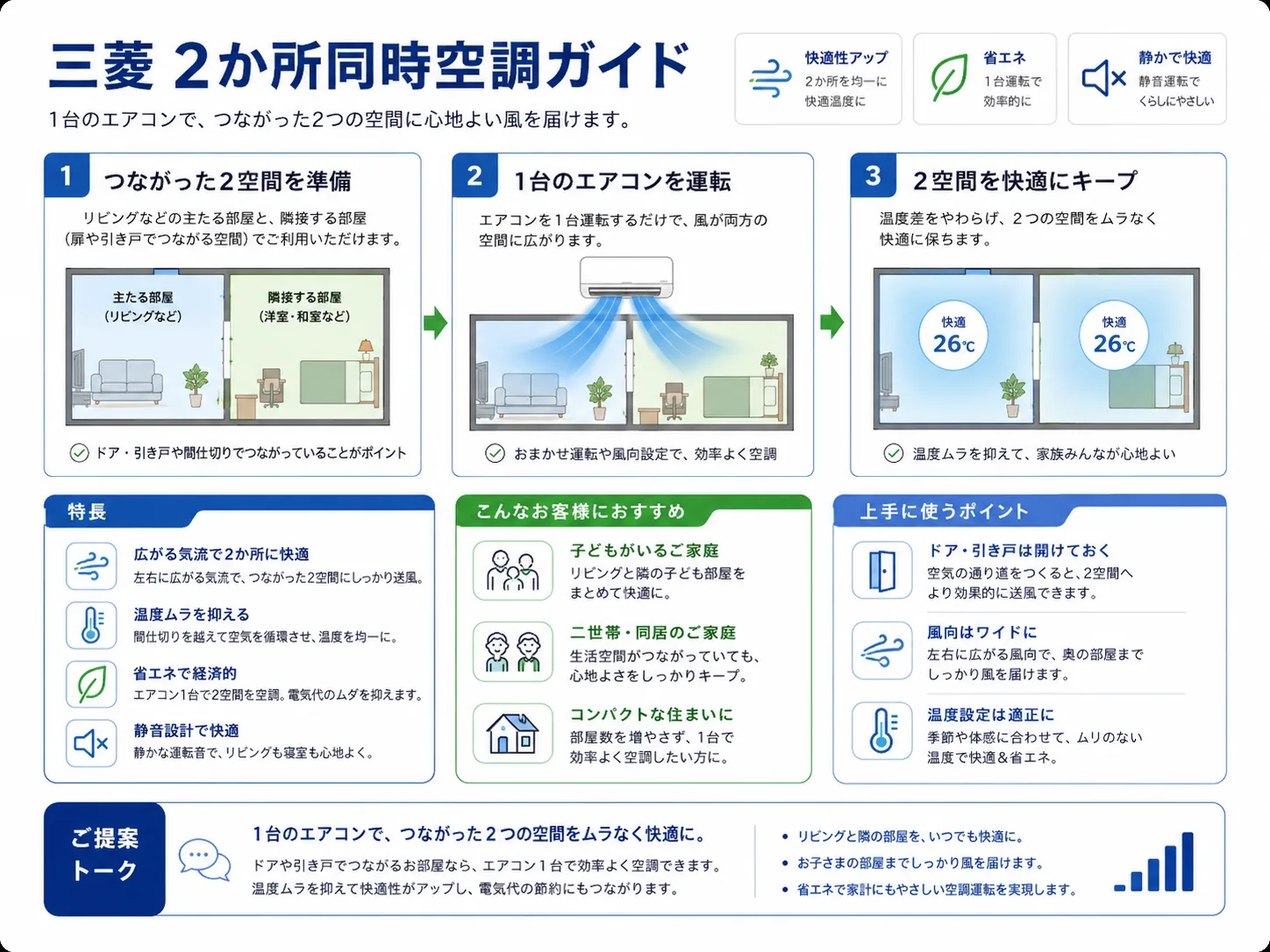
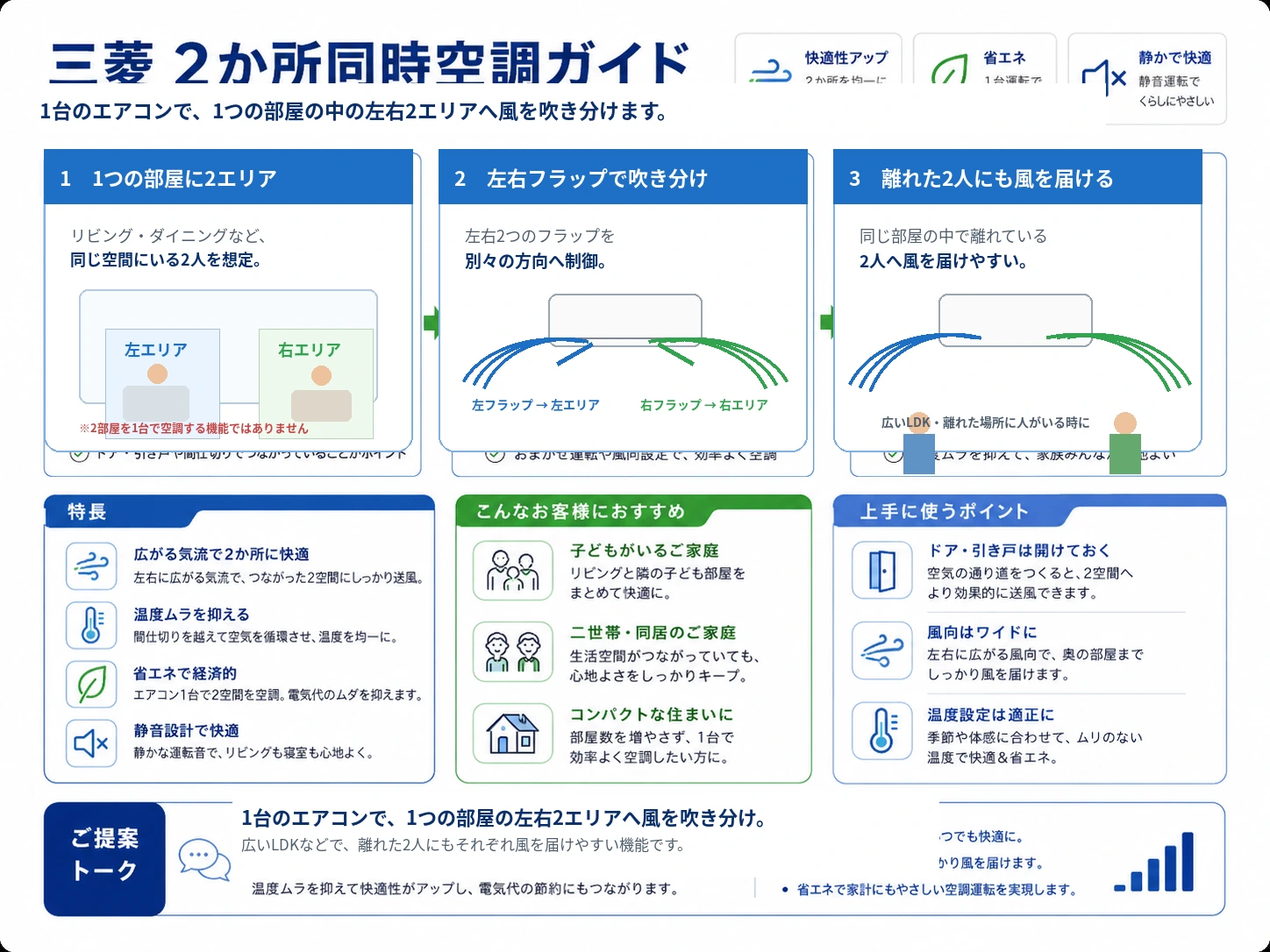
Add files via upload

diff --git a/index.html b/index.html
@@ -4,7 +4,7 @@
 <meta charset="utf-8">
 <meta name="viewport" content="width=device-width,initial-scale=1,viewport-fit=cover">
 <meta name="theme-color" content="#ffffff">
-<title>エアコン販買マスター Pro Ver.6.9.6 日立豪華図解統一確認版</title>
+<title>エアコン販買マスター Pro Ver.6.9.7 玉ちゃん指摘全反映版</title>
 <link rel="apple-touch-icon" sizes="180x180" href="apple-touch-icon.png?v=3890">
 <link rel="icon" type="image/png" sizes="32x32" href="favicon-32.png?v=3890">
 <style>
@@ -1294,7 +1294,7 @@ html,body{max-width:100%;overflow-x:hidden}
 
 
 <style id="v630-sharp-lux-final">
-/* Ver.6.9.6 日立豪華図解統一確認版：iPad/iPhone見切れ対策 */
+/* Ver.6.9.7 玉ちゃん指摘全反映版：iPad/iPhone見切れ対策 */
 #visualGrid .visual-card[data-cat="sharp"]{
   overflow:hidden!important;
   padding:10px!important;
@@ -1434,7 +1434,7 @@ html,body{max-width:100%;overflow-x:hidden}
 #general .maker-status-list span,#mitsubishi .maker-status-list span{min-width:42px;text-align:center}
 @media(max-width:700px){#general .hitachi-flow-row,#mitsubishi .hitachi-flow-row{grid-template-columns:1fr!important}#general .hitachi-flow-row i,#mitsubishi .hitachi-flow-row i{transform:rotate(90deg)}}
 
-/* ===== Ver6.9.5 Visual Library Unified Design ===== */
+/* ===== Ver6.9.7 Tamachan Feedback Fully Applied ===== */
 .visual-grid{grid-template-columns:repeat(2,minmax(0,1fr));gap:18px}
 .visual-card{position:relative;border:1px solid #cfe0ef;border-radius:24px;background:linear-gradient(180deg,#fff 0%,#f8fbff 100%);overflow:hidden;box-shadow:0 14px 34px rgba(20,61,102,.10)}
 .visual-card::before{content:"";display:block;height:7px;background:linear-gradient(90deg,#0d6ee8,#61a9ff)}
@@ -1484,7 +1484,7 @@ html,body{max-width:100%;overflow-x:hidden}
     <div class="brand">
       <span class="brand-snow">❄</span>
       <span>エアコン販買マスター</span>
-      <small>Ver.6.9.6 日立豪華図解統一確認版</small>
+      <small>Ver.6.9.7 玉ちゃん指摘全反映版</small>
     </div>
     <button class="icon-button status-button" onclick="openMission()" aria-label="今日の目標">◎</button>
   </header>
@@ -2207,7 +2207,7 @@ html,body{max-width:100%;overflow-x:hidden}
         <span class="setting-state state-manual">設定が必要</span><span class="setting-state state-auto">条件で自動</span><span class="setting-state state-connect">接続設定</span><span class="setting-state state-check">お手入れ確認</span>
       </div>
       <div class="setting-card-grid">
-        <article class="setting-info-card"><span class="setting-state state-check">構造機能</span><h3>防カビカラッとファン</h3><p><b>Rシリーズのみ。</b>ファンの超親水ナノコーティングで結露水を薄く広げ、速乾・ホコリ付着抑制につなげる構造。お客様がONにする設定機能としては案内しません。</p></article>
+        <article class="setting-info-card"><span class="setting-state state-check">構造＋乾燥運転</span><h3>防カビカラッとファン</h3><p><b>Rシリーズのみ。</b>超親水ナノコーティング自体は常時働く構造です。ファン乾燥に関わる運転機能は、使う場合に設定状態を確認します。コーティングそのものを「ONにする機能」とは案内しません。</p></article>
         <article class="setting-info-card"><span class="setting-state state-auto">自動</span><h3>フィルター自動お掃除</h3><p><b>R・Vシリーズ。</b>フィルターのホコリをトルネードブラシで自動除去し、ダストボックスに集めます。定期的なお手入れ目安は「フィルター自動お掃除」の解説側で確認します。</p></article>
         <article class="setting-info-card"><span class="setting-state state-manual">運転選択</span><h3>氷結ドライ</h3><p><b>R・V・E。</b>除湿運転として選択して使います。熱交換器を氷点下まで下げる方式で、再熱除湿ではなく室温低下があります。</p></article>
         <article class="setting-info-card"><span class="setting-state state-connect">接続設定</span><h3>COCORO HOME</h3><p><b>R・V・E。</b>無線LAN内蔵。スマホ連携を使うには家庭のWi‑Fiとアプリへの接続設定が必要です。DGは無線LAN内蔵モデルとして案内しません。</p></article>
@@ -2233,28 +2233,40 @@ html,body{max-width:100%;overflow-x:hidden}
 <section id="mitsubishi" class="page hidden">
   <header class="subheader"><button onclick="show('home')">‹</button><h1>三菱攻略</h1><span></span></header>
   <section class="maker-hero" style="background:linear-gradient(135deg,#8f0d18,#d9252f);color:#fff">
-    <div class="maker-hero-copy"><span class="maker-kicker">MITSUBISHI MASTER GUIDE</span><h2>センサー・気流・清潔を、シリーズ選びへつなげる。</h2><p>FZ・Z・X・R・Sを、シリーズ差 → 重要機能 → 初期設定 → 接客診断 → ミニテストの順で学びます。</p><div class="maker-hero-actions"><button onclick="scrollMakerTo('mitsubishiSeriesMap')">シリーズ攻略</button><button onclick="openVisualLibraryFilter('mitsubishi')">図解を見る</button></div></div>
-    <div class="maker-hero-visual"><div class="maker-series-status"><small>シリーズ攻略</small><div id="mitsubishiSeriesStatus" class="maker-status-list"><span data-series="FZ">FZ</span><span data-series="Z">Z</span><span data-series="X">X</span><span data-series="R">R</span><span data-series="S">S</span></div></div><div class="maker-progress-ring"><span id="mitsubishiPercent">0%</span><small>理解度</small></div></div>
+    <div class="maker-hero-copy"><span class="maker-kicker">MITSUBISHI MASTER GUIDE</span><h2>センサー・気流・清潔を、シリーズ選びへつなげる。</h2><p>FZ・Z・R・GEを、シリーズ差 → 重要機能 → 初期設定 → 接客診断 → ミニテストの順で学びます。</p><div class="maker-hero-actions"><button onclick="scrollMakerTo('mitsubishiSeriesMap')">シリーズ攻略</button><button onclick="openVisualLibraryFilter('mitsubishi')">図解を見る</button></div></div>
+    <div class="maker-hero-visual"><div class="maker-series-status"><small>シリーズ攻略</small><div id="mitsubishiSeriesStatus" class="maker-status-list"><span data-series="FZ">FZ</span><span data-series="Z">Z</span><span data-series="R">R</span><span data-series="GE">GE</span></div></div><div class="maker-progress-ring"><span id="mitsubishiPercent">0%</span><small>理解度</small></div></div>
   </section>
   <div class="daikin-wrap">
-    <div class="daikin-note">2026年度の霧ヶ峰は複数シリーズを展開しています。この攻略では売場で比較しやすいFZ・Z・X・R・Sを中心に整理します。搭載機能や初期設定は型番・能力帯で異なるため、最終案内は該当機種の公式仕様・取扱説明書で確認してください。</div>
+    <div class="daikin-note">2026年度の霧ヶ峰は複数シリーズを展開しています。この攻略では売場で比較しやすいFZ・Z・R・GEを中心に整理します。搭載機能や初期設定は型番・能力帯で異なるため、最終案内は該当機種の公式仕様・取扱説明書で確認してください。</div>
 
     <div class="hitachi-master-card"><div class="hitachi-master-head"><div><span class="hitachi-master-badge">三菱マスターコース</span><h2>ムーブアイだけで終わらせない</h2><p>「誰を見ているか」「どこへ風を送るか」「どこまで自動化するか」を、シリーズ選定までつなげます。</p></div><div class="hitachi-master-score"><span id="mitsubishiProgressValue">0%</span><small>学習進捗</small></div></div><div class="hitachi-course-steps"><button onclick="scrollMakerTo('mitsubishiSeriesMap')"><b>STEP 1</b><span>シリーズ</span></button><button onclick="scrollMakerTo('mitsubishiFeatureArea')"><b>STEP 2</b><span>重要機能</span></button><button onclick="scrollMakerTo('mitsubishiSettings')"><b>STEP 3</b><span>初期設定</span></button><button onclick="scrollMakerTo('mitsubishiQuick')"><b>STEP 4</b><span>接客診断</span></button><button onclick="scrollMakerTo('mitsubishiQuizArea')"><b>STEP 5</b><span>ミニテスト</span></button></div></div>
 
-    <div id="mitsubishiSeriesMap" class="series-card" style="max-width:980px;margin:0 auto 18px"><div class="maker-section-title"><span>SERIES POSITION</span><h2>FZ・Z・X・R・S シリーズ攻略</h2><p>「上から高い順」ではなく、お客様が必要とする快適性・設置性で覚えます。</p></div><div class="maker-position-ladder"><div><b>👑 FZ</b><span>次世代プレミアム。大空間でセンサー・快適性・省エネを最優先。人の状態を細かく見ながら自動制御を活用したい方向け。</span></div><div><b>⭐ Z</b><span>プレミアム。快適・清潔・省エネを総合的に重視。FZほど特殊な最上位機能は不要でも、長時間使うリビングで妥協したくない方向け。</span></div><div><b>⚖ X</b><span>ハイスペック。機能と価格のバランスを取りやすい。センサー・清潔・気流をしっかり使いたい家庭の比較軸。</span></div><div><b>📐 R</b><span>高さ255mmのコンパクトモデル。設置寸法が厳しい場所でも、快適・清潔機能を残したい時に強い。</span></div><div><b>🏠 S</b><span>スタンダード。寝室・子ども部屋など、基本機能をしっかり押さえながら価格とのバランスを取りたい部屋向け。</span></div></div></div>
+    <div id="mitsubishiSeriesMap" class="series-card" style="max-width:980px;margin:0 auto 18px"><div class="maker-section-title"><span>SERIES POSITION</span><h2>FZ・Z・R・GE シリーズ攻略</h2><p>「上から高い順」ではなく、お客様が必要とする快適性・設置性で覚えます。</p></div><div class="maker-position-ladder"><div><b>👑 FZ</b><span>14〜29畳。ムーブアイmirA.I.+、2温度2気流、プレミアム除湿。省エネ・快適性を最優先する最上位候補。</span></div><div><b>⭐ Z</b><span>6〜29畳。ムーブアイmirA.I.+、2か所同時空調、さらっと除湿冷房（再熱除湿）。寒くなりにくい除湿を重視する時の重要候補。</span></div><div><b>📐 R</b><span>6〜23畳・高さ255mm。ムーブアイ、スマート除湿、ヘルスエアー機能。設置性と快適機能を両立。</span></div><div><b>🏠 GE</b><span>6〜18畳。フロアアイ、選べる3モード除湿、はずせるボディ。基本機能・価格を重視する標準シリーズ。</span></div></div></div>
 
-    <div class="series-tabs maker-series-tabs"><button class="series-tab active" onclick="showMitsubishiSeries('FZ',this)">FZ</button><button class="series-tab" onclick="showMitsubishiSeries('Z',this)">Z</button><button class="series-tab" onclick="showMitsubishiSeries('X',this)">X</button><button class="series-tab" onclick="showMitsubishiSeries('R',this)">R</button><button class="series-tab" onclick="showMitsubishiSeries('S',this)">S</button></div>
+    <div class="series-tabs maker-series-tabs"><button class="series-tab active" onclick="showMitsubishiSeries('FZ',this)">FZ</button><button class="series-tab" onclick="showMitsubishiSeries('Z',this)">Z</button><button class="series-tab" onclick="showMitsubishiSeries('R',this)">R</button><button class="series-tab" onclick="showMitsubishiSeries('GE',this)">GE</button></div>
     <div id="mitsubishiSeriesPanel" class="series-panel"></div>
 
-    <div id="mitsubishiFeatureArea" class="series-card" style="max-width:980px;margin:0 auto 18px"><div class="maker-section-title"><span>IMPORTANT FEATURES</span><h2>三菱の重要機能</h2><p>機能名だけでなく「どんな困りごとに効くか」で覚えます。</p></div><div class="setting-card-grid"><article class="setting-info-card"><span class="setting-state state-auto">センサー</span><h3>👁 ムーブアイ系</h3><p>赤外線センサーで床・人などの温度を見て体感に合わせた制御へ。<b>「設定温度では拾えない暑い・寒いを見にいく」</b>と説明すると伝わりやすい。</p></article><article class="setting-info-card"><span class="setting-state state-auto">自動制御</span><h3>🌬 ハイブリッド運転</h3><p>体感に合わせて冷房・送風などを切り替え、快適性と省エネの両立を狙う考え方。長時間運転するリビングで比較しやすい。</p></article><article class="setting-info-card"><span class="setting-state state-manual">気流</span><h3>↔ 2か所同時空調</h3><p>対応機種では離れた2人などに別々の気流を届ける提案が可能。広いLDKや家族で体感差がある家庭に。</p></article><article class="setting-info-card"><span class="setting-state state-check">清潔</span><h3>💧 ピュアミスト</h3><p>微細なミストを使った空気ケア。搭載シリーズを確認し、空気の清潔性も重視する方へ。</p></article><article class="setting-info-card"><span class="setting-state state-check">設置</span><h3>📐 Rの高さ255mm</h3><p>窓上やカーテンレール上など、高さ制約がある場所で候補。機能だけでなく<b>本体寸法＋必要据付寸法</b>をセットで確認。</p></article><article class="setting-info-card"><span class="setting-state state-check">アプリ</span><h3>📱 スマホ連携</h3><p>対応機種ではアプリ連携が可能。利用する場合は家庭のネット環境・機器登録などの初期設定が必要です。</p></article></div></div>
+    <div id="mitsubishiFeatureArea" class="series-card" style="max-width:980px;margin:0 auto 18px"><div class="maker-section-title"><span>IMPORTANT FEATURES</span><h2>三菱の重要機能</h2><p>玉ちゃん指摘に合わせ、機能名・シリーズ差・使い方を具体化します。</p></div><div class="setting-card-grid">
+<article class="setting-info-card"><span class="setting-state state-auto">センサー</span><h3>👁 三菱のセンサー</h3><p><b>FZ・Z＝ムーブアイmirA.I.+／FL＝ムーブアイ極／X・R・S＝ムーブアイ／GE＝フロアアイ。</b>設定温度だけでなく床・壁・人などを見て制御するのが提案軸です。</p></article>
+<article class="setting-info-card"><span class="setting-state state-auto">自動制御</span><h3>🌬 ハイブリッド運転</h3><p>夏は<b>冷房 ⇄ 爽風（送風）</b>を体感温度に合わせて自動切替。FZ・Zなど「おまかせA.I.自動」に含むシリーズと、設定して使うシリーズを分けて案内します。</p></article>
+<article class="setting-info-card"><span class="setting-state state-manual">気流</span><h3>↔ 2か所同時空調</h3><p><b>1台で2部屋を空調する機能ではありません。</b>1つの広い部屋の中で左右2つのフラップを別方向へ向け、2エリアへ吹き分けます。</p></article>
+<article class="setting-info-card"><span class="setting-state state-check">空気清浄</span><h3>✨ ピュアミスト／ヘルスエアー</h3><p><b>FZ・Z・X＝ピュアミスト、R＝ヘルスエアー機能。</b>Rにピュアミストは搭載しないため、「三菱の空気清浄」として方式を分けます。</p></article>
+<article class="setting-info-card"><span class="setting-state state-check">清潔</span><h3>🧼 3つのボディ</h3><p><b>はずせる＝自分で外して洗う／よごれん＝汚れを付きにくくする／おまかせ＝内部を自動ケア。</b>同じ名前でも対象部位はシリーズごとに確認します。</p></article>
+<article class="setting-info-card"><span class="setting-state state-check">設置</span><h3>📐 Rの高さ255mm</h3><p>本体高さだけで設置可否を断定せず、必要据付寸法・配管方向まで確認。右配管295mm／左配管386mmを目安に現場条件を確認します。</p></article>
+</div></div>
 
-    <div id="mitsubishiSettings" class="series-card setting-card-section" style="max-width:980px;margin:0 auto 18px"><div class="maker-section-title"><span>INITIAL SETTINGS</span><h2>三菱 初期設定・使い方</h2><p>「搭載している」＝「購入直後から最適設定」とは限りません。最初に確認したい項目を整理します。</p></div><div class="setting-card-legend"><span class="setting-state state-check">最初に確認</span><span class="setting-state state-auto">自動運転</span><span class="setting-state state-manual">手動選択</span><span class="setting-state state-connect">接続設定</span></div><div class="setting-card-grid"><article class="setting-info-card"><span class="setting-state state-check">最初に確認</span><h3>① 時刻・タイマー</h3><p>時計やタイマー機能を使う場合は時刻設定を確認。停電・電池交換後などは再確認します。</p></article><article class="setting-info-card"><span class="setting-state state-auto">自動運転</span><h3>② センサー／おまかせ系</h3><p>ムーブアイやAI自動系の搭載・設定状態を確認。お客様が「全部自動で任せたい」のか「自分で風向を決めたい」のかも聞きます。</p></article><article class="setting-info-card"><span class="setting-state state-manual">手動選択</span><h3>③ 風向・風量</h3><p>直風が苦手、2人に分けたい、足元を重視したいなど、生活に合わせて風向を調整。センサー任せとの違いも説明します。</p></article><article class="setting-info-card"><span class="setting-state state-check">清潔</span><h3>④ 清潔機能</h3><p>内部クリーン・フィルター清掃・ピュアミストなどはシリーズごとに搭載差や動作条件があります。お手入れ不要とは案内しません。</p></article><article class="setting-info-card"><span class="setting-state state-connect">接続設定</span><h3>⑤ アプリ・無線LAN</h3><p>スマホ操作を使う場合は対応機種、家庭のWi‑Fi環境、アプリへの機器登録を確認します。</p></article><article class="setting-info-card"><span class="setting-state state-check">最後に確認</span><h3>⑥ 取扱説明書の初期状態</h3><p>機能名称が同じでも、シリーズ・年度で工場出荷時設定が異なる場合があります。<b>「搭載＝ON」では断定しない</b>のが安全です。</p></article></div></div>
+    <div id="mitsubishiSettings" class="series-card setting-card-section" style="max-width:980px;margin:0 auto 18px"><div class="maker-section-title"><span>INITIAL SETTINGS</span><h2>三菱 初期設定・使い方</h2><p>時刻設定を主役にせず、「最初から自動／自分で設定／アプリ接続」を分けます。</p></div><div class="setting-card-legend"><span class="setting-state state-auto">最初から自動</span><span class="setting-state state-manual">自分で設定</span><span class="setting-state state-connect">アプリ接続</span></div><div class="setting-card-grid">
+<article class="setting-info-card"><span class="setting-state state-auto">最初から自動</span><h3>① センサー・おまかせ系</h3><p>対応シリーズではセンサーや自動制御を活用。ハイブリッド運転の扱いはシリーズごとに違うため、設定状態を確認します。</p></article>
+<article class="setting-info-card"><span class="setting-state state-manual">自分で設定</span><h3>② 風向・風量・使いたい機能</h3><p>直風が苦手、左右へ吹き分けたい、タイマーを使いたいなど、生活に合わせて必要な項目だけ設定します。</p></article>
+<article class="setting-info-card"><span class="setting-state state-manual">清潔</span><h3>③ 清潔機能</h3><p>内部クリーン・フィルター掃除・空気清浄は搭載差あり。<b>搭載＝お手入れ不要</b>とは案内しません。</p></article>
+<article class="setting-info-card"><span class="setting-state state-connect">アプリ接続</span><h3>④ MyMU／霧ヶ峰REMOTE等</h3><p>スマホ操作を使う場合のみ、対応型番・家庭のWi‑Fi・アプリ登録を確認します。対応サービスは型番・年度で確認します。</p></article>
+</div></div>
 
-    <section id="mitsubishiQuick" class="maker-quick-mode"><div class="maker-section-title"><span>BUYING FLOOR MODE</span><h2>お客様の一言 → 比較候補</h2><p>売場でそのまま使える絞り込み。</p></div><div class="maker-quick-grid"><button><b>🥵 家族で暑がり寒がりが違う</b><small>FZ / Z → センサー・気流</small></button><button><b>🏠 広いLDKをムラなく</b><small>FZ / Z / X</small></button><button><b>💰 電気代も気になる</b><small>FZ / Z → 省エネ性能も比較</small></button><button><b>📐 高さがギリギリ</b><small>R → 255mm＋据付寸法</small></button><button><b>✨ 清潔も重視</b><small>Z / X等 → 搭載清潔機能を確認</small></button><button><b>🛏 個室・基本機能</b><small>S → 必要機能と価格</small></button></div></section>
+    <section id="mitsubishiQuick" class="maker-quick-mode"><div class="maker-section-title"><span>BUYING FLOOR MODE</span><h2>お客様の一言 → 比較候補</h2><p>売場でそのまま使える絞り込み。</p></div><div class="maker-quick-grid"><button><b>🥵 家族で暑がり寒がりが違う</b><small>FZ / Z → センサー・気流</small></button><button><b>🏠 広いLDKをムラなく</b><small>FZ / Z</small></button><button><b>💰 電気代も気になる</b><small>FZ / Z → 省エネ性能も比較</small></button><button><b>📐 高さがギリギリ</b><small>R → 255mm＋据付寸法</small></button><button><b>✨ 清潔も重視</b><small>FZ / Z / R → 空気清浄・清潔機能を確認</small></button><button><b>🛏 個室・基本機能</b><small>GE → 基本機能と価格</small></button></div></section>
 
     <div id="mitsubishiTalk" class="series-card hitachi-sales-flow" style="max-width:980px;margin:0 auto 18px"><h2 style="margin-top:0">三菱を提案する4ステップ</h2><div class="hitachi-flow-row"><div><b>1. 人</b><span>誰がどこで使う？</span></div><i>→</i><div><b>2. 体感差</b><span>暑がり・寒がりは？</span></div><i>→</i><div><b>3. 設置</b><span>高さ・部屋の広さ</span></div><i>→</i><div><b>4. シリーズ</b><span>必要機能だけ残す</span></div></div><div class="feature-caution"><b>接客の一言</b><br>「三菱は、人やお部屋を見て必要なところへ気流を届ける考え方が強みです。ご家族の過ごし方と設置条件からシリーズを絞りましょう。」</div></div>
 
-    <div class="series-card maker-finish-card"><div class="hitachi-finish-icon">🏅</div><div><h2>三菱攻略 修了チェック</h2><p>5シリーズ・重要機能・初期設定・接客・ミニテストを確認。</p><strong id="mitsubishiFinishText">学習を始めましょう</strong></div></div>
+    <div class="series-card maker-finish-card"><div class="hitachi-finish-icon">🏅</div><div><h2>三菱攻略 修了チェック</h2><p>4シリーズ・重要機能・初期設定・接客・ミニテストを確認。</p><strong id="mitsubishiFinishText">学習を始めましょう</strong></div></div>
     <div id="mitsubishiQuizArea" class="daikin-quiz"><h2>三菱シリーズ提案ミニテスト</h2><div id="mitsubishiQuizQuestion" class="question-card"></div><div id="mitsubishiQuizChoices" class="choice-list"></div><div id="mitsubishiQuizFeedback" class="answer-result hidden"></div><button id="mitsubishiQuizNext" class="next-button hidden" onclick="nextMitsubishiQuiz()">次の問題</button></div>
   </div>
 </section>
@@ -3338,9 +3350,9 @@ const VISUAL_LIBRARY=[
  {category:"daikin",file:"room-patrol.png",title:"室温パトロール",desc:"停止中の見守りから自動運転までの流れを図解。"},
  {category:"daikin",file:"daikin-overview.png",title:"R・A・F・E比較",desc:"使い方・希望・予算から、4シリーズの提案軸を比較。"},
  {category:"hitachi",file:"hitachi-freeze-indoor-illustrated.png?v=686",title:"凍結洗浄（室内機）",desc:"凍結→汚れ捕捉→解凍排水の工程と、できること・限界を図解。"},
- {category:"hitachi",file:"hitachi-freeze-outdoor-lux-v695.png?v=695",title:"凍結洗浄（室外機）",desc:"背面熱交換器の凍結→解凍→洗い流しと、逆回転時の注意を豪華図解。"},
+ {category:"hitachi",file:"hitachi-freeze-outdoor-lux-v695.png?v=697",title:"凍結洗浄（室外機）",desc:"背面熱交換器の凍結→解凍→洗い流し。工場出荷時OFF・設定必要・逆回転時の案内を整理。"},
  {category:"hitachi",file:"hitachi-fan-robot-illustrated.png?v=686",title:"ファンお掃除ロボ",desc:"送風ファンの清掃範囲と、フィルター自動掃除との違いを図解。"},
- {category:"hitachi",file:"hitachi-filter-auto-lux-v696.png?v=696",title:"フィルター自動掃除",desc:"固定フィルター上をお掃除ユニットが移動し、正面側ダストボックスへ集める仕組みを豪華図解。"},
+ {category:"hitachi",file:"hitachi-filter-auto-lux-v696.png?v=697",title:"フィルター自動掃除",desc:"フィルターのホコリを自動掃除する機能を主役にし、ユニット移動式は仕組みの特徴として整理。"},
  {category:"hitachi",file:"hitachi-mold-buster-illustrated.png?v=686",title:"カビバスター",desc:"停止中の温湿度監視と、加熱・低湿制御によるカビ抑制を図解。"},
  {category:"hitachi",file:"hitachi-internal-dry-illustrated.png?v=686",title:"内部送風乾燥",desc:"停止後の送風で内部の湿気を乾かし、カビ抑制を助ける流れを図解。"},
  {category:"hitachi",file:"hitachi-stainless-illustrated.png?v=686",title:"ステンレス・クリーン",desc:"フィルター・通風路・フラップなど、採用箇所と限界を図解。"},
@@ -3351,7 +3363,7 @@ const VISUAL_LIBRARY=[
  {category:"hitachi",file:"hitachi-frost-watch-illustrated.png?v=686",title:"みはって霜取り",desc:"室外機の霜を見張り、必要なタイミングで霜取り運転する仕組みを図解。"},
  {category:"hitachi",file:"hitachi-ryokai-illustrated.png?v=686",title:"健康冷房［涼快］",desc:"湿度を抑えながら、冷えすぎに配慮したさわやかな冷房を図解。"},
  {category:"hitachi",file:"hitachi-sleep-watch-illustrated.png?v=686",title:"みはっておやすみ",desc:"睡眠中の温度・湿度を見張り、寝苦しさや冷えすぎに配慮する運転を図解。"},
- {category:"hitachi",file:"hitachi-lab-control-lux-v696.png?v=696",title:"LAB制御",desc:"設定温度到達後の安定時に低出力へ自動切替し、快適性と節電を両立する仕組みを図解。"},
+ {category:"hitachi",file:"hitachi-lab-control-lux-v696.png?v=697",title:"LAB制御",desc:"設定温度到達後の安定時に低出力へ自動切替し、快適性と節電を両立する仕組みを図解。"},
  {category:"hitachi",file:"hitachi-wave-fan-illustrated.png?v=414",title:"WN ウェーブファン",desc:"Xシリーズと同じファン採用、静音性向上、案内時の注意を図解。"},
  {category:"toshiba",file:"toshiba-radar-v692.webp",title:"レーダー風あて／風よけ",desc:"V-DR専用。人の動きを探知し、風を届ける・避ける仕組みを図解。"},
  {category:"toshiba",file:"toshiba-mufukan-v692.webp",title:"無風感空調",desc:"V-DR・V-DZ・V-DX。風あたりをやわらげる仕組みを図解。"},
@@ -3361,21 +3373,22 @@ const VISUAL_LIBRARY=[
  {category:"toshiba",file:"toshiba-iolife-v692.webp",title:"IoLIFE",desc:"Wi-Fi接続・機器登録・スマホ操作の流れを図解。"},
  {category:"toshiba",file:"toshiba-series-v692.webp",title:"東芝5シリーズ比較",desc:"V-DR・V-DZ・V-DX・V-X・V-Mの位置づけを図解。"},
  {category:"toshiba",file:"toshiba-settings-v692.webp",title:"東芝 初期設定",desc:"手動選択・自動・IoLIFE接続設定を整理。"},
- {category:"sharp",file:"sharp-lux-plasma-v694.png?v=694",title:"プラズマクラスター空気清浄",desc:"空気ケアの仕組みを豪華図解。送風単独運転・25000/7000のシリーズ差はSHARP攻略で確認。"},
- {category:"sharp",file:"sharp-lux-filter-v694.png?v=694",title:"フィルター自動お掃除",desc:"R・Vのブラシ清掃からダスト回収までを図解。"},
- {category:"sharp",file:"sharp-lux-cocoro-v694.png?v=694",title:"COCORO HOME・ペットモード",desc:"スマホ連携、おやすみAI、ペットモードまで具体的に図解。"},
- {category:"sharp",file:"sharp-lux-airflow-v694.png?v=694",title:"気流制御",desc:"コアンダロング気流・すこやかシャワー気流を分けて図解。"},
- {category:"sharp",file:"sharp-lux-dehumid-v694.png?v=694",title:"除湿2方式",desc:"氷結ドライとコアンダ除湿の仕組み・使い分けを図解。"},
- {category:"sharp",file:"sharp-lux-sleep-v694.png?v=694",title:"匠の冷房・睡眠向け機能",desc:"匠の冷房、すこやかシャワー気流、おやすみAIを整理。"},
- {category:"sharp",file:"sharp-lux-clean-v694.png?v=694",title:"清潔3機能",desc:"防カビカラッとファン、内部清浄、カビパトロールの役割を図解。"},
- {category:"sharp",file:"sharp-lux-eco-v694.png?v=694",title:"省エネ・節電の具体機能",desc:"エコ自動・おでかけ・つないでもっと節電などを具体化。"},
- {category:"mitsubishi",file:"mitsubishi-moveeye-v692.webp",title:"ムーブアイ",desc:"人・床・壁・天井まで見分けるセンサーの仕組みと接客ポイントを図解。"},
- {category:"mitsubishi",file:"mitsubishi-hybrid-v692.webp",title:"ハイブリッド運転",desc:"体感温度に合わせて冷房と送風を自動で使い分ける流れを図解。"},
- {category:"mitsubishi",file:"mitsubishi-two-point-v692.webp",title:"2か所同時空調",desc:"左右のフラップで2つのエリアへ気流を届ける仕組みを図解。"},
- {category:"mitsubishi",file:"mitsubishi-puremist-v692.webp",title:"ピュアミスト",desc:"ナノレベルの微細ミストによる空気ケアを図解。"},
- {category:"mitsubishi",file:"mitsubishi-series-v692.webp",title:"三菱シリーズ比較",desc:"FZ・Z・X・R・Sの違いと選び方を大型比較表で整理。"},
- {category:"mitsubishi",file:"mitsubishi-settings-v692.webp",title:"三菱 初期設定",desc:"最初に確認したい設定を5ステップで見やすく整理。"},
- {category:"mitsubishi",file:"mitsubishi-clean-v692.webp",title:"三菱 清潔・お手入れ",desc:"フィルターや内部クリーンなど、日常のお手入れと注意点を整理。"},
+ {category:"sharp",file:"sharp-lux-plasma-v694.png?v=697",title:"プラズマクラスター空気清浄",desc:"送風単独運転も可能。プラズマクラスター25000／7000はシリーズごとに確認。"},
+ {category:"sharp",file:"sharp-lux-filter-v694.png?v=697",title:"フィルター自動お掃除",desc:"ブラシ清掃からダスト回収までを図解。搭載シリーズは型番で確認。"},
+ {category:"sharp",file:"sharp-lux-cocoro-v694.png?v=697",title:"COCORO HOME・ペットモード",desc:"冷房時のみ。ワンちゃん冷房／ネコちゃん冷房の制御差と注意点を明記。"},
+ {category:"sharp",file:"sharp-lux-airflow-v694.png?v=697",title:"気流制御",desc:"コアンダロング気流・すこやかシャワー気流を除湿と分けて図解。"},
+ {category:"sharp",file:"sharp-lux-dehumid-v694.png?v=697",title:"除湿2方式",desc:"R＝氷結ドライ、V・E＝氷結ドライ＋コアンダ除湿、DG＝コアンダ除湿。再熱除湿ではない。"},
+ {category:"sharp",file:"sharp-lux-sleep-v694.png?v=697",title:"匠の冷房・睡眠向け機能",desc:"匠の冷房は温度・湿度・気流、おやすみAIは気象情報と起床時フィードバックを活用。"},
+ {category:"sharp",file:"sharp-lux-clean-v694.png?v=697",title:"清潔3機能",desc:"防カビカラッとファンはR、内部清浄／カビパトロールはR・V・E・DG。DGの効果説明も区別。"},
+ {category:"sharp",file:"sharp-lux-eco-v694.png?v=697",title:"省エネ・節電の具体機能",desc:"エコ自動・おでかけ・つないでもっと節電を『何を見てどう制御するか』で具体化。"},
+ {category:"sharp",file:"sharp-settings-illustrated.png?v=697",title:"SHARP 初期設定",desc:"自動／要設定／アプリ接続を分離。ダストボックス確認はお手入れへ移動。"},
+ {category:"mitsubishi",file:"mitsubishi-moveeye-v692.webp?v=697",title:"三菱のセンサー",desc:"mirA.I.+／ムーブアイ極／ムーブアイ／フロアアイの違いと搭載シリーズを整理。"},
+ {category:"mitsubishi",file:"mitsubishi-hybrid-v692.webp?v=697",title:"ハイブリッド運転",desc:"冷房⇄爽風（送風）を自動切替。シリーズごとの設定方法の違いも明記。"},
+ {category:"mitsubishi",file:"mitsubishi-two-point-v692.webp?v=697",title:"2か所同時空調",desc:"1台で2部屋ではなく、1つの部屋の左右2エリアへ左右フラップで吹き分け。"},
+ {category:"mitsubishi",file:"mitsubishi-puremist-v692.webp?v=697",title:"三菱の空気清浄",desc:"FZ・Z・X＝ピュアミスト、R＝ヘルスエアー機能として分けて案内。"},
+ {category:"mitsubishi",file:"mitsubishi-settings-v692.webp?v=697",title:"三菱 初期設定",desc:"最初から自動／自分で確認／アプリ接続の3分類。時刻設定は主役にしない。"},
+ {category:"mitsubishi",file:"mitsubishi-clean-v692.webp?v=697",title:"三菱 清潔・お手入れ",desc:"はずせるボディ／よごれんボディ／おまかせボディの役割を整理。"},
+ {category:"mitsubishi",file:"mitsubishi-series-v692.webp?v=697",title:"三菱シリーズ比較",desc:"FZ・Z・R・GEを中心に、畳数・除湿方式・設置性を比較。シリーズ比較は図解一覧の最後に配置。"},
  {category:"general",file:"general-sarasara-v692.webp",title:"さらさら冷房",desc:"再熱除湿で冷えすぎを抑えながら、湿度をしっかりコントロール。"},
  {category:"general",file:"general-airflow-v692.webp",title:"ノクリア独自の気流制御",desc:"広いお部屋へムラを抑えて届ける気流の考え方を図解。"},
  {category:"general",file:"general-clean-v692.webp",title:"熱交換器・内部クリーン",desc:"熱交換器や内部の清潔維持をサポートする機能を整理。"},
@@ -3705,9 +3718,9 @@ const SHARP_FEATURES={
  airflow:{title:"🌬 気流制御",body:"R・V・Eはコアンダロング気流で、天井に沿わせながら奥まで風を届けます。DGはコアンダ気流・すこやかシャワー気流で、直接風を抑えたい寝室・個室に提案しやすいです。"},
  dehumidify:{title:"💧 除湿2方式",body:"氷結ドライは熱交換器を氷点下まで下げて除湿量を確保。コアンダ除湿は冷風を天井へ逃がして体に当たりにくくします。目的の違う2方式として説明します。"},
  sleep:{title:"🌙 匠の冷房・睡眠",body:"匠の冷房は温度・湿度・気流をコントロール。すこやかシャワー気流は直風を抑える気流、おやすみAIはCOCORO HOMEのクラウドAI機能です。"},
- cleanCare:{title:"🛡 清潔3機能",body:"防カビカラッとファン、プラズマクラスター内部清浄、カビパトロールは別機能。Rはファンの超親水ナノコーティングまで含めて清潔性を強化します。"},
+ cleanCare:{title:"🛡 清潔3機能",body:"防カビカラッとファン＝Rのみ。プラズマクラスター内部清浄／カビパトロール＝R・V・E・DG。DGも内部清浄は搭載しますが、『カビ菌除菌効果』の説明対象からは分けて案内します。"},
  eco:{title:"🌱 省エネ機能",body:"エコ自動運転・おでかけ運転・つないでもっと節電・フィルター自動お掃除など、ムダの原因を具体的に減らす機能で説明します。"},
- app:{title:"📱 COCORO HOME",body:"R・V・Eは無線LAN内蔵。スマホ連携を使うには家庭のWi‑Fiとアプリへの接続設定が必要です。DGは無線LAN内蔵として案内しません。"},
+ app:{title:"📱 COCORO HOME・ペットモード",body:"R・V・Eは無線LAN内蔵。ペットモードは冷房時のみ。ワンちゃん冷房はエアコンに近い場所を設定温度より約2℃低く、ネコちゃん冷房は冷房と送風を自動切替して冷やしすぎを抑えます。ペット専用部屋での使用は推奨しません。"},
  settings:{title:"⚙ SHARP 初期設定",body:"フィルター自動お掃除はR・Vで自動。防カビカラッとファンはコーティング構造で、設定機能としては案内しません。COCORO HOMEを使う場合はWi‑Fi・アプリ接続設定が必要です。"}
 };
 function showSharpFeature(k){
@@ -3749,7 +3762,7 @@ const SHARP_SERIES={
 };
 
 const SHARP_QUIZ=[
- {q:"2026年Rシリーズの『防カビカラッとファン』の説明として最も適切なのは？",choices:["ファンの結露水を薄く広げて速く乾かし、ホコリを付きにくくしてカビ菌増殖の原因に対策する","すでに発生したカビを自動で洗い落とす","フィルターのホコリをブラシで除去する","室外機の熱交換器を洗浄する"],answer:0,ex:"防カビカラッとファンはRシリーズの清潔機能。すでに発生したカビを取る機能ではなく、使用にはお客様自身の設定が必要です。"},
+ {q:"2026年Rシリーズの『防カビカラッとファン』の説明として最も適切なのは？",choices:["ファンの結露水を薄く広げて速く乾かし、ホコリを付きにくくしてカビ菌増殖の原因に対策する","すでに発生したカビを自動で洗い落とす","フィルターのホコリをブラシで除去する","室外機の熱交換器を洗浄する"],answer:0,ex:"防カビカラッとファンはRシリーズの清潔機能。超親水ナノコーティング自体は設定不要です。ファン乾燥に関わる運転設定は、使用する場合に設定状態を確認します。"},
  {q:"高さ249mmでフィルター自動お掃除まで欲しい場合、2026年SHARPの候補として最も適切なのは？",choices:["Vシリーズ","Eシリーズ","DGシリーズ","Rシリーズの全能力帯"],answer:0,ex:"Vシリーズは全機種高さ249mmでフィルター自動お掃除を搭載。Eも高さ249mmですが自動お掃除は非搭載です。"},
  {q:"VシリーズとEシリーズの違いとして適切なのは？",choices:["Vはフィルター自動お掃除搭載、Eは非搭載","Eはプラズマクラスター非搭載","Vだけ氷結ドライ搭載","Eだけ無線LAN内蔵"],answer:0,ex:"V・Eはいずれもプラズマクラスター25000、匠の冷房、氷結ドライ、無線LANを備えます。大きな違いの一つがフィルター自動お掃除です。"},
  {q:"DGシリーズの組み合わせとして最も適切なのは？",choices:["プラズマクラスター7000＋奥行230mm＋すこやかシャワー気流","プラズマクラスター25000＋フィルター自動お掃除","氷結ドライ＋匠の冷房","防カビカラッとファン＋無線LAN内蔵"],answer:0,ex:"DGは奥行230mmのシンプルモデルで、プラズマクラスター7000、コアンダ気流制御、すこやかシャワー気流などを搭載します。"},
@@ -3865,11 +3878,10 @@ function nextSharpQuiz(){
 const MITSUBISHI_PROGRESS_KEY="aircon_mitsubishi_master_v670";
 const GENERAL_PROGRESS_KEY="aircon_general_master_v671";
 const MITSUBISHI_SERIES={
- FZ:{title:"FZシリーズ",tag:"次世代プレミアム",summary:"大空間でセンサー・快適性・省エネを最優先する最上位候補。",suitable:["長時間使うリビング","家族で体感差がある","自動制御を積極的に使いたい"],features:["高度なセンサー制御","2つの温度の風など上位気流制御","省エネ・清潔機能を幅広く搭載"],talk:"『人の状態まで細かく見ながら快適性を自動調整したい』ならFZから比較します。",caution:"能力帯・機能の搭載差は型番ごとに確認します。"},
- Z:{title:"Zシリーズ",tag:"プレミアム",summary:"快適・清潔・省エネを総合的に重視する主力上位シリーズ。",suitable:["リビングで長時間使用","清潔も省エネも重視","上位機能は欲しいがFZまでは不要"],features:["ムーブアイ系センサー","快適気流・除湿","清潔・省エネ機能を充実"],talk:"『リビング用で快適・清潔・省エネを全部バランスよく』ならZが比較しやすいです。",caution:"FZとの違いは欲しい機能を1つずつ照合します。"},
- X:{title:"Xシリーズ",tag:"ハイスペック",summary:"機能と価格のバランスを取りやすい高機能シリーズ。",suitable:["センサーや清潔機能を使いたい","価格も意識したい","リビング〜個室で高機能を選びたい"],features:["センサー制御","清潔機能","快適気流"],talk:"『必要な高機能は残しつつ、価格とのバランスも取りたい』ならXです。",caution:"Zとの差は搭載機能を具体的に比較します。"},
- R:{title:"Rシリーズ",tag:"高さ255mm",summary:"設置性を重視しつつ快適機能も残したコンパクトシリーズ。",suitable:["窓上・カーテンレール上","高さ制約が厳しい","コンパクトでも機能を妥協したくない"],features:["高さ255mm","センサー・清潔系機能","設置性と機能の両立"],talk:"『高さが厳しいけれど、シンプル機に落としたくない』ならRを確認します。",caution:"本体高さだけでなく据付必要寸法も確認します。"},
- S:{title:"Sシリーズ",tag:"スタンダード",summary:"寝室や個室で基本機能と価格のバランスを取りやすいシリーズ。",suitable:["寝室・子ども部屋","基本機能重視","価格も抑えたい"],features:["冷暖房の基本機能","扱いやすい操作","必要十分な快適機能"],talk:"『個室で必要な機能をしっかり、価格も抑えたい』ならSから比較します。",caution:"上位シリーズのセンサー・清潔機能が必要かを先に確認します。"}
+ FZ:{title:"FZシリーズ",tag:"次世代プレミアム",summary:"14〜29畳。省エネ・センサー・2温度2気流を最優先する最上位。",suitable:["大きなリビング","体感差がある家庭","自動制御・省エネ重視"],features:["ムーブアイmirA.I.+","2温度2気流","プレミアム除湿","はずせる／よごれん／おまかせボディ"],talk:"『省エネと自動快適を最優先』ならFZから比較します。",caution:"大型室内機。設置寸法と能力ラインアップを確認します。"},
+ Z:{title:"Zシリーズ",tag:"プレミアム",summary:"6〜29畳。快適・清潔・省エネに加え、再熱除湿を使うさらっと除湿冷房が強み。",suitable:["リビングで長時間使用","寒くなりにくい除湿を重視","清潔機能も重視"],features:["ムーブアイmirA.I.+","2か所同時空調","さらっと除湿冷房（再熱除湿）","ピュアミスト・外せるボディ"],talk:"『冷えすぎを抑えながら除湿したい』ならZの再熱除湿を比較します。",caution:"FZとの違いは省エネ・気流・除湿方式で比較します。"},
+ R:{title:"Rシリーズ",tag:"高さ255mm",summary:"6〜23畳。高さ制約に強く、ムーブアイ・スマート除湿・ヘルスエアー機能を搭載。",suitable:["窓上・梁下","高さ制約が厳しい","空気清浄も欲しい"],features:["高さ255mm","ムーブアイ","スマート除湿","ヘルスエアー機能"],talk:"『高さが厳しくても快適機能を残したい』ならRです。",caution:"本体高さだけで断定せず、据付必要寸法・配管方向を確認します。"},
+ GE:{title:"GEシリーズ",tag:"スタンダード",summary:"6〜18畳。基本機能と価格を重視する標準シリーズ。",suitable:["寝室・個室","基本機能重視","価格を抑えたい"],features:["フロアアイ","選べる3モード除湿","はずせるボディ","基本の冷暖房"],talk:"『基本機能をしっかり、価格も抑えたい』ならGEです。",caution:"上位シリーズのセンサー・空気清浄・再熱除湿が必要か確認します。"}
 };
 const GENERAL_SERIES={
  X:{title:"Xシリーズ",tag:"プレミアム",summary:"ハイブリッド気流とさらさら冷房が大きな強み。広いLDKで気流・湿度快適まで重視。",suitable:["広いLDK","温度ムラが気になる","冷えすぎず湿度も下げたい"],features:["ハイブリッド気流","さらさら冷房","熱交換器加熱除菌"],talk:"『広い部屋の気流ムラと湿度快適までこだわる』ならXが第一候補です。",caution:"さらさら冷房は能力帯による対応差を確認します。"},
@@ -3881,11 +3893,11 @@ const GENERAL_SERIES={
 };
 function makerShuffle(arr){const a=arr.map((v,i)=>({v,i}));for(let i=a.length-1;i>0;i--){const j=Math.floor(Math.random()*(i+1));[a[i],a[j]]=[a[j],a[i]];}return a;}
 const MITSUBISHI_QUIZ=[
- {q:"高さ制約が厳しい場所で、機能もできるだけ残したい。まず比較したいシリーズは？",choices:["R","FZ","S","Z"],answer:0,ex:"Rは高さ255mmのコンパクトモデル。実際の設置では必要据付寸法も確認します。"},
- {q:"三菱のセンサー提案として最も適切なのは？",choices:["人や床などの温度を見て、体感に合わせた制御へつなげる","部屋のCO2濃度だけで冷房を止める","屋外の天気だけで風向を決める","すべての機種で同じセンサーを搭載する"],answer:0,ex:"ムーブアイ系は赤外線センサーで人や床などを見て、体感に合わせた制御へつなげる考え方です。"},
- {q:"『家族で暑がり・寒がりが違う』お客様への提案として適切なのは？",choices:["FZ・Zを中心にセンサーと気流制御を比較する","Sだけを価格で選ぶ","Rだけを高さで選ぶ","設置寸法だけで決める"],answer:0,ex:"体感差がある家庭では、上位シリーズのセンサー・気流制御を比較するのが自然です。"},
- {q:"初期設定の案内として適切なのは？",choices:["搭載機能でも設定状態や動作条件を確認する","搭載していれば全機能が必ずONと案内する","清潔機能があれば手入れ不要と案内する","アプリは登録不要と案内する"],answer:0,ex:"シリーズ・年度・型番で初期状態が異なることがあるため、設定状態を確認して案内します。"},
- {q:"Rシリーズの説明で避けたいものは？",choices:["高さ255mmだからどこでも必ず設置できる","設置性が強み","据付寸法も確認する","高さ制約のある場所で候補になる"],answer:0,ex:"本体寸法だけで設置可否は断定できません。上下左右の必要スペースや配管経路も確認します。"}
+ {q:"寒くなりにくい除湿を重視するお客様に、まず比較したいシリーズは？",choices:["Z","FZ","R","GE"],answer:0,ex:"Zは再熱除湿を使う『さらっと除湿冷房』が比較ポイント。FZはプレミアム除湿で、再熱除湿ではありません。"},
+ {q:"三菱のセンサー組み合わせとして正しいものは？",choices:["FZ・Z＝ムーブアイmirA.I.+、GE＝フロアアイ","FZ・Z＝フロアアイ、GE＝ムーブアイ極","R＝ムーブアイmirA.I.+、GE＝ムーブアイ","全シリーズ同じセンサー"],answer:0,ex:"上位FZ・ZはムーブアイmirA.I.+、GEはフロアアイ。シリーズ差を名前まで正確に案内します。"},
+ {q:"2か所同時空調の説明として最も適切なのは？",choices:["1つの部屋の中で左右2つのフラップを別方向へ向け、2エリアへ吹き分ける","1台の室内機で壁を隔てた2部屋を同時に空調する","2台の室外機を1台のリモコンで操作する","左右の部屋へ配管を分岐して送風する"],answer:0,ex:"2部屋を1台で空調する機能ではありません。広いLDKなど同一空間の左右2エリアへ吹き分けます。"},
+ {q:"三菱Rシリーズの空気清浄機能として正しいものは？",choices:["ヘルスエアー機能","ピュアミスト","ストリーマ","プラズマクラスター"],answer:0,ex:"Rはヘルスエアー機能。Rにピュアミストを案内しないようにします。"},
+ {q:"三菱の清潔機能の覚え方として適切なのは？",choices:["はずせる＝自分で、よごれん＝汚れ予防、おまかせ＝自動ケア","はずせる＝空気清浄、よごれん＝除湿、おまかせ＝暖房","3つとも同じ機能名の言い換え","すべてフィルター自動掃除だけを指す"],answer:0,ex:"3つは役割が違います。対象部位や搭載内容は型番ごとに確認します。"}
 ];
 const GENERAL_QUIZ=[
  {q:"『広いLDKで温度ムラが気になる』お客様に、まず比較したいシリーズは？",choices:["X","C","D","L"],answer:0,ex:"Xは温度と速さの違う2種類の気流を使うハイブリッド気流が大きな特徴です。"},
@@ -3898,7 +3910,7 @@ const GENERAL_QUIZ=[
 ];
 function showMitsubishiSeries(key,button){document.querySelectorAll("#mitsubishi .series-tab").forEach(b=>b.classList.remove("active"));if(button)button.classList.add("active");const p=getMakerProgress(MITSUBISHI_PROGRESS_KEY);if(!p.series.includes(key)){p.series.push(key);saveMakerProgress(MITSUBISHI_PROGRESS_KEY,p);}renderMakerSeries("mitsubishiSeriesPanel",MITSUBISHI_SERIES[key],key);updateMitsubishiProgress();}
 function showGeneralSeries(key,button){document.querySelectorAll("#general .series-tab").forEach(b=>b.classList.remove("active"));if(button)button.classList.add("active");const p=getMakerProgress(GENERAL_PROGRESS_KEY);if(!p.series.includes(key)){p.series.push(key);saveMakerProgress(GENERAL_PROGRESS_KEY,p);}renderMakerSeries("generalSeriesPanel",GENERAL_SERIES[key],key);updateGeneralProgress();}
-function updateMitsubishiProgress(){const p=getMakerProgress(MITSUBISHI_PROGRESS_KEY),done=Math.min(p.series.length,5)+(p.quiz?1:0),pct=Math.round(done/6*100);["mitsubishiPercent","mitsubishiProgressValue"].forEach(id=>{const a=document.getElementById(id);if(a)a.textContent=pct+"%";});document.querySelectorAll("#mitsubishiSeriesStatus [data-series]").forEach(el=>el.classList.toggle("done",p.series.includes(el.dataset.series)));const b=document.getElementById("mitsubishiFinishText");if(b)b.textContent=pct>=100?"🎉 三菱攻略マスター：全項目修了":"現在 "+pct+"% 完了";}
+function updateMitsubishiProgress(){const p=getMakerProgress(MITSUBISHI_PROGRESS_KEY),done=Math.min(p.series.length,4)+(p.quiz?1:0),pct=Math.round(done/5*100);["mitsubishiPercent","mitsubishiProgressValue"].forEach(id=>{const a=document.getElementById(id);if(a)a.textContent=pct+"%";});document.querySelectorAll("#mitsubishiSeriesStatus [data-series]").forEach(el=>el.classList.toggle("done",p.series.includes(el.dataset.series)));const b=document.getElementById("mitsubishiFinishText");if(b)b.textContent=pct>=100?"🎉 三菱攻略マスター：全項目修了":"現在 "+pct+"% 完了";}
 function updateGeneralProgress(){const p=getMakerProgress(GENERAL_PROGRESS_KEY),done=Math.min(p.series.length,6)+(p.quiz?1:0),pct=Math.round(done/7*100);["generalPercent","generalProgressValue"].forEach(id=>{const a=document.getElementById(id);if(a)a.textContent=pct+"%";});document.querySelectorAll("#generalSeriesStatus [data-series]").forEach(el=>el.classList.toggle("done",p.series.includes(el.dataset.series)));const b=document.getElementById("generalFinishText");if(b)b.textContent=pct>=100?"🎉 ゼネラル攻略マスター：全項目修了":"現在 "+pct+"% 完了";}
 let mitsubishiQuizIndex=0,mitsubishiQuizAnswered=false,mitsubishiQuizScore=0,mitsubishiQuizCurrent=null;
 function renderMitsubishiQuiz(){const q=MITSUBISHI_QUIZ[mitsubishiQuizIndex],qEl=document.getElementById("mitsubishiQuizQuestion"),cEl=document.getElementById("mitsubishiQuizChoices"),fEl=document.getElementById("mitsubishiQuizFeedback"),nEl=document.getElementById("mitsubishiQuizNext");if(!qEl)return;mitsubishiQuizAnswered=false;const shuffled=makerShuffle(q.choices);mitsubishiQuizCurrent={q,shuffled,correct:shuffled.findIndex(x=>x.i===q.answer)};qEl.innerHTML="<b>Q"+(mitsubishiQuizIndex+1)+"</b> "+q.q;cEl.innerHTML="";shuffled.forEach((x,i)=>{const b=document.createElement("button");b.className="choice";b.textContent=(i+1)+"　"+x.v;b.onclick=()=>answerMitsubishiQuiz(i,b);cEl.appendChild(b);});fEl.classList.add("hidden");nEl.classList.add("hidden");}
